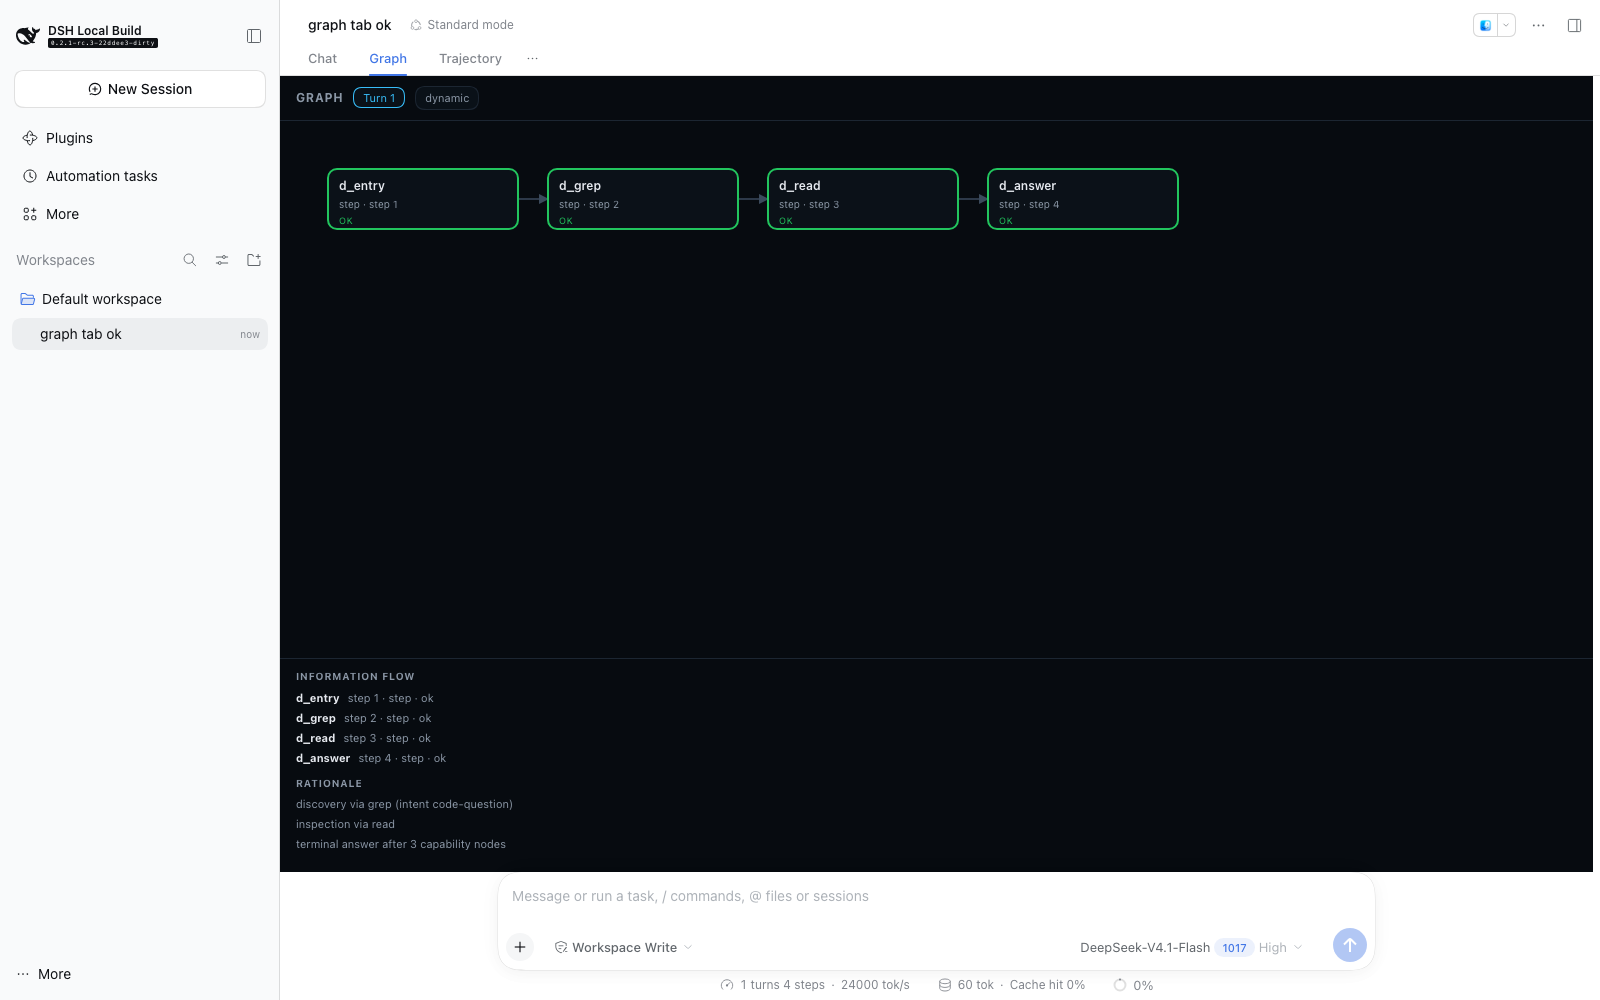
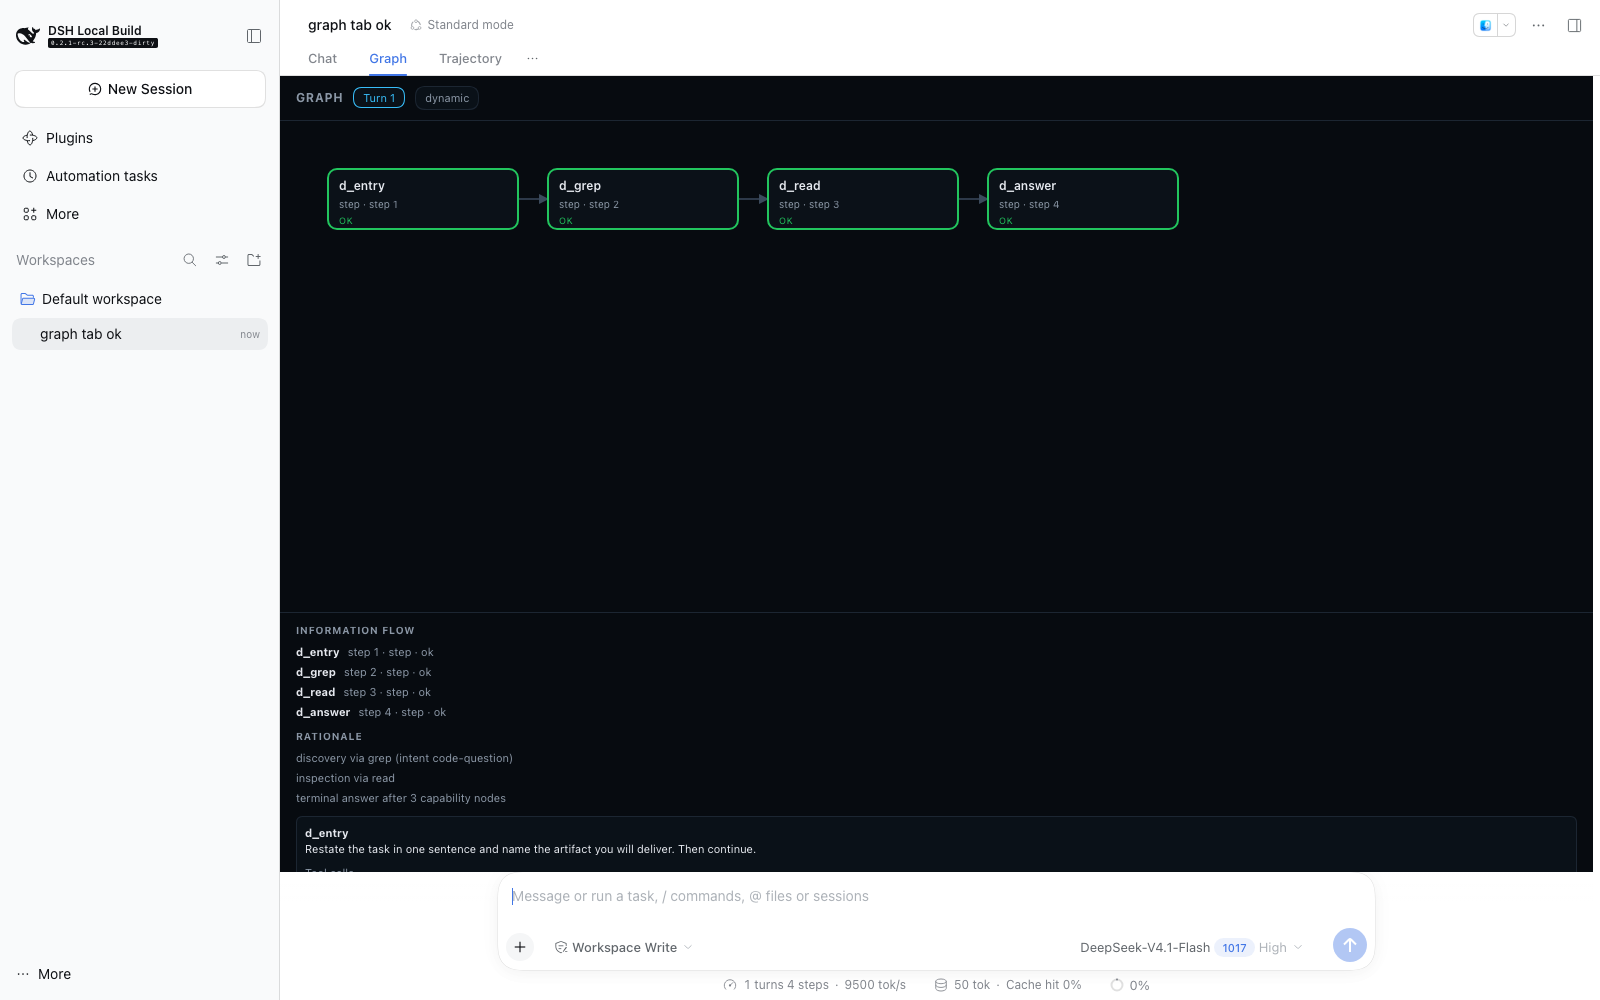
Graph tab tool-call inspector + trajectory jump; conformance invariants; synthesis cleanup

Changed region(s): [[0.1875, 0.62, 0.4688, 0.868], [0.4688, 0.961, 0.7188, 0.992]]

diff --git a/packages/loop/src/scheduler.ts b/packages/loop/src/scheduler.ts
@@ -57,6 +57,7 @@ export interface GraphTurnSnapshot {
     readonly step: number
     readonly executor: string
     readonly status: 'ok' | 'failed'
+    readonly tools?: readonly { readonly name: string; readonly callId: string; readonly isError: boolean }[]
   }[]
   readonly depth?: number
   readonly replans?: number
@@ -66,7 +67,11 @@ export interface GraphTurnDriver {
   beginTurn(task: TurnTask): Promise<GraphTurnSnapshot>
   current(): PlanNode | undefined
   instruction(): string | undefined
-  advance(outcome: { readonly ok: boolean; readonly failedTool?: string }): GraphTurnSnapshot
+  advance(outcome: {
+    readonly ok: boolean
+    readonly failedTool?: string
+    readonly tools?: readonly { readonly name: string; readonly callId: string; readonly isError: boolean }[]
+  }): GraphTurnSnapshot
   adopt(plan: TaskPlan): void
   /** Detach and return all queued subagent nodes (parallel batch). */
   takeSubagentBatch(): PlanNode[]
@@ -126,7 +131,13 @@ export function createGraphTurnDriver(options: GraphTurnDriverOptions = {}): Gra
   const mode: TopologyMode = options.mode ?? 'template'
   const adoptPolicy: AdoptPolicy = options.adoptPolicy ?? 'start-only'
   let adoptedAtStep: number | undefined
-  let trail: { id: string; step: number; executor: string; status: 'ok' | 'failed' }[] = []
+  let trail: {
+    id: string
+    step: number
+    executor: string
+    status: 'ok' | 'failed'
+    tools?: readonly { name: string; callId: string; isError: boolean }[]
+  }[] = []
   let replans = 0
   let currentGraph = options.graph
   let currentTemplates = options.templates
@@ -275,12 +286,22 @@ export function createGraphTurnDriver(options: GraphTurnDriverOptions = {}): Gra
     instruction(): string | undefined {
       return topology?.current()?.instruction
     },
-    advance(outcome: { readonly ok: boolean; readonly failedTool?: string }): GraphTurnSnapshot {
+    advance(outcome: {
+    readonly ok: boolean
+    readonly failedTool?: string
+    readonly tools?: readonly { readonly name: string; readonly callId: string; readonly isError: boolean }[]
+  }): GraphTurnSnapshot {
       if (topology === undefined) return snapshot()
       const node = topology.current()
       lastNode = node?.id ?? lastNode
       if (node !== undefined) {
-        trail.push({ id: node.id, step: topology.steps() + 1, executor: node.executor ?? 'step', status: outcome.ok ? 'ok' : 'failed' })
+        trail.push({
+          id: node.id,
+          step: topology.steps() + 1,
+          executor: node.executor ?? 'step',
+          status: outcome.ok ? 'ok' : 'failed',
+          ...(outcome.tools === undefined || outcome.tools.length === 0 ? {} : { tools: outcome.tools }),
+        })
       }
       topology.advance({ ok: outcome.ok, ...(outcome.failedTool === undefined ? {} : { failedTool: outcome.failedTool }) })
       // Boundary replan: a failed work node gets a small diagnosis/retry graph.

diff --git a/packages/graph-ui/client/graph-view.js b/packages/graph-ui/client/graph-view.js
@@ -144,7 +144,7 @@ window.__ModuleLoader__.load({
         var status = t ? t.status : 'pending'
         return h('g', {
           key: node.id, className: 'node ' + status, transform: 'translate(' + p.x + ',' + p.y + ')',
-          onClick: function () { setInspect(node) }
+          onClick: function () { setInspect({ node: node, trail: trailById.get(node.id) }) }
         },
           h('rect', { width: 190, height: 60, rx: 9 }),
           h('text', { className: 'id', x: 11, y: 21 }, node.id),
@@ -174,7 +174,24 @@ window.__ModuleLoader__.load({
           })),
           h('h4', null, 'Rationale'),
           h('ul', { className: 'dshgv-flow' }, (turn.rationale || []).map(function (line, index) { return h('li', { key: index }, h('span', null, line)) })),
-          inspect ? h('div', { className: 'inspect' }, h('b', null, inspect.id), '\n', esc(inspect.instruction || '(no instruction)')) : null))
+          inspect
+            ? h('div', { className: 'inspect' },
+                h('b', null, inspect.node.id), '\n',
+                esc(inspect.node.instruction || '(no instruction)'),
+                inspect.trail && inspect.trail.tools && inspect.trail.tools.length > 0
+                  ? h('div', { style: { marginTop: '8px' } },
+                      h('div', { style: { color: '#8b97a6', marginBottom: '4px' } }, 'Tool calls'),
+                      inspect.trail.tools.map(function (tool) {
+                        return h('div', { key: tool.callId, style: { display: 'flex', gap: '8px', alignItems: 'center', margin: '3px 0' } },
+                          h('span', { style: { color: tool.isError ? '#ef4444' : '#22c55e' } }, tool.isError ? '✕' : '✓'),
+                          h('span', null, tool.name),
+                          props.openView ? h('button', {
+                            className: 'dshgv-pill',
+                            onClick: function () { props.openView('trajectory', tool.callId) }
+                          }, 'open in trajectory') : null)
+                      }))
+                  : null)
+            : null))
     }
 
     function apply(ctx) {

diff --git a/packages/loop/src/loop/agent.ts b/packages/loop/src/loop/agent.ts
@@ -480,6 +480,7 @@ export class ReactLoopAgent implements Agent {
           return false
         }
         let stepFailedTool: string | undefined
+        const stepTools: { name: string; callId: string; isError: boolean }[] = []
         try {
           if (turnEnds && decision.messages.length === 0) break
           // A removed waking message or an enter decision rewritten to empty
@@ -498,9 +499,12 @@ export class ReactLoopAgent implements Agent {
             toolRecovery.observe(event)
             if (event.type === 'tool/call') {
               toolNames.set(event.data.callId, event.data.name)
-            } else if (event.type === 'tool/result' && event.data.message.isError === true) {
+              stepTools.push({ name: event.data.name, callId: event.data.callId, isError: false })
+            } else if (event.type === 'tool/result') {
               const name = toolNames.get(event.data.message.toolCallId)
-              if (name === 'bash' || name === 'pwsh') stepFailedTool = name
+              const entry = stepTools.find(tool => tool.callId === event.data.message.toolCallId)
+              if (entry !== undefined) entry.isError = event.data.message.isError === true
+              if (event.data.message.isError === true && (name === 'bash' || name === 'pwsh')) stepFailedTool = name
             }
           })
           try {
@@ -534,7 +538,11 @@ export class ReactLoopAgent implements Agent {
         if (this.turnGraph !== undefined) {
           const ok = (turnEnds === null || turnEnds.kind === 'completed' || turnEnds.kind === 'max-tokens')
             && stepFailedTool === undefined
-          this.turnGraph.advance({ ok, ...(stepFailedTool === undefined ? {} : { failedTool: stepFailedTool }) })
+          this.turnGraph.advance({
+            ok,
+            ...(stepFailedTool === undefined ? {} : { failedTool: stepFailedTool }),
+            tools: stepTools,
+          })
         }
         if (this.turnGraph !== undefined) {
           if (this.turnGraph.done()) {

diff --git a/packages/core/src/topology.ts b/packages/core/src/topology.ts
@@ -136,7 +136,6 @@ export function synthesizeTopology(input: SynthesizeInput): SynthesizedTopology 
 
   const wantsWeb = fingerprint.intent === 'research' || fingerprint.intent === 'wide-research' || fingerprint.intent === 'fact-finding'
   const mutating = fingerprint.mutating || fingerprint.intent === 'bug-fix' || fingerprint.intent === 'code-change' || fingerprint.intent === 'test-failure'
-  const wantsDoc = fingerprint.intent === 'document' || fingerprint.artifactsOut.includes('file.text')
 
   // Front: entry node (the only synthetic node besides the answer).
   const entry: PlanNode = {
@@ -236,17 +235,6 @@ export function synthesizeTopology(input: SynthesizeInput): SynthesizedTopology 
       link(cursor, id)
       cursor = id
       rationale.push(`inspection via ${reader}`)
-    }
-  }
-
-  if (wantsDoc) {
-    const writer = firstAvailable(graph, presetTools, ['write', 'edit'])
-    if (writer !== undefined && mutating === false) {
-      const id = 'd_write'
-      nodes.push(node(id, writer, toolInstruction(writer, 'deliver')))
-      link(cursor, id)
-      cursor = id
-      rationale.push(`document delivery via ${writer}`)
     }
   }
 

diff --git a/PROGRESS.md b/PROGRESS.md
@@ -27,7 +27,16 @@ Local working repo. Nothing here edits the DSH checkout; the driver is loaded th
 - [x] Composition evidence: `--dump-config` shows stock row disabled + graph rows inserted
       (installed profile), and `preset-explore` present with bundle A
 
-## Just landed (reflection + live Graph tab)
+## Just landed (usability + reliability pass)
+- [x] **Graph tab node inspector**: click a node → instruction + its tool calls (name, ok/error) +
+      `open in trajectory` buttons using the conversation view's `openView('trajectory', callId)`.
+- [x] **Conformance invariants**: `scripts/e2e-conformance.sh` runs the same task through stock and
+      graph loops and checks turn/step pairing, tool call→result pairing, assistant-without-header,
+      and open-turn/step leftovers on both logs (`scripts/conformance-diff.mjs`). Both pass.
+- [x] Synthesis no longer adds a spurious write node for "summarize a document" tasks.
+- [x] Graph tab e2e drives a node click and asserts the tool-call inspector; screenshot refreshed.
+
+## Previously landed (reflection + live Graph tab)
 - [x] `docs/RETROSPECTIVE.md`: honest list of regressions, keepers, and potentially disruptive ideas.
 - [x] Graph tab now uses **SSE** (`/graph-chat/api/events`) with polling fallback; live snapshots carry
       plan + trail + replans, so a running turn renders before it closes.
@@ -69,7 +78,7 @@ Local working repo. Nothing here edits the DSH checkout; the driver is loaded th
 - [x] Preview panel: `graph-runtime.traceDir` writes per-turn `{plan, trail, rationale, depth, replans}`;
       `scripts/preview.mjs` renders `preview/index.html` (SVG topology + information flow + node inspector,
       roots first, child turns labelled). Open the generated file directly.
-- [x] 73 unit tests + 7 e2e suites green
+- [x] 73 unit tests + 8 e2e suites green
 
 ## Previously landed (dynamic topology)
 - [x] `synthesizeTopology`: arbitrary DAG from the capability graph (no template): discovery,

diff --git a/docs/IMPLEMENTATION.md b/docs/IMPLEMENTATION.md
@@ -32,7 +32,8 @@ end-to-end, but the "not implemented" list below is real.
 - `scripts/e2e-replan.sh` — `bash` verify fails → recovery subgraph runs.
 - `scripts/preview.mjs /tmp/dsh-graph-traces preview` — offline topology preview panel.
 - `scripts/e2e-graph-chat.sh` — real Web host + standalone graph-chat page/API; screenshots `preview/graph-chat-live.png`.
-- `scripts/e2e-graph-tab.sh` — installs both packages into a throwaway web profile, drives the real UI with Puppeteer, asserts the Graph tab, screenshots `preview/graph-tab-live.png`.
+- `scripts/e2e-graph-tab.sh` — installs both packages into a throwaway web profile, drives the real UI with Puppeteer, asserts the Graph tab, clicks a node to check the tool-call inspector, screenshots `preview/graph-tab-live.png`.
+- `scripts/e2e-conformance.sh` — stock vs graph event invariants on real session logs (`conformance-diff.mjs`).
 - `bash scripts/e2e-installed.sh` — creates a profile from the headless template,
   `dsh plugin add packages/loop`, runs the same task through the installed bundle
   (no `--patch`), same result.

diff --git a/docs/RETROSPECTIVE.md b/docs/RETROSPECTIVE.md
@@ -63,4 +63,9 @@
 - SSE：`/graph-chat/api/events` 推送 live snapshot，Graph tab 优先 SSE、失败回退轮询。
 - Triage：简单任务单节点，避免「graph 比 stock 还贵」。
 - Child 单节点：subagent 子代理不再递归跑 dynamic topology。
-- 新增 2 个单测；Graph tab e2e 仍通过（截图 `preview/graph-tab-live.png`）。
+- Graph tab 节点联动：点节点看 instruction + tool calls（成功/失败），一键 `open in trajectory`
+  （`openView('trajectory', callId)`）；e2e 会真的点一个节点。
+- Conformance 不变量：同一任务跑 stock 与 graph，检查 turn/step 配对、tool call→result 配对、
+  无 header 的 assistant、未闭合 turn/step；两条 loop 都通过。
+- 合成器不再给“总结文档”任务加多余的 write 节点。
+- 当前：73 单测、8 条 e2e 全绿。

diff --git a/README.md b/README.md
@@ -21,6 +21,7 @@ bash scripts/e2e-subagents.sh       # parallel subagent branches in the graph
 bash scripts/e2e-replan.sh          # boundary replan after a failed verify
 bash scripts/e2e-graph-chat.sh      # standalone graph-chat page + API + screenshot
 bash scripts/e2e-graph-tab.sh       # Graph tab inside the real Web chat UI
+bash scripts/e2e-conformance.sh     # stock vs graph event invariants
 node scripts/preview.mjs /tmp/dsh-graph-traces preview   # offline topology preview
 # Web UI: install packages/loop + packages/graph-ui, then open any session and click the Graph tab
 node scripts/build-bundles.mjs      # rebuild packages/*/lib
